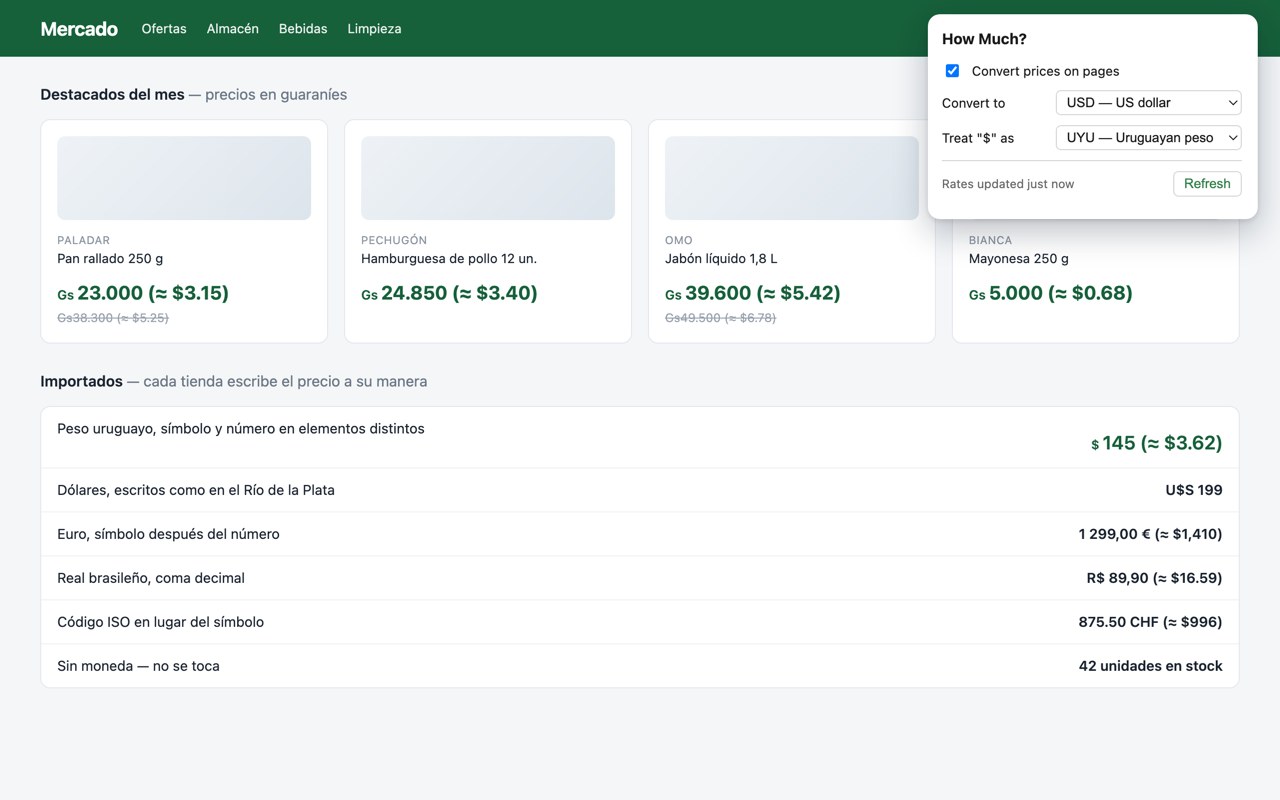
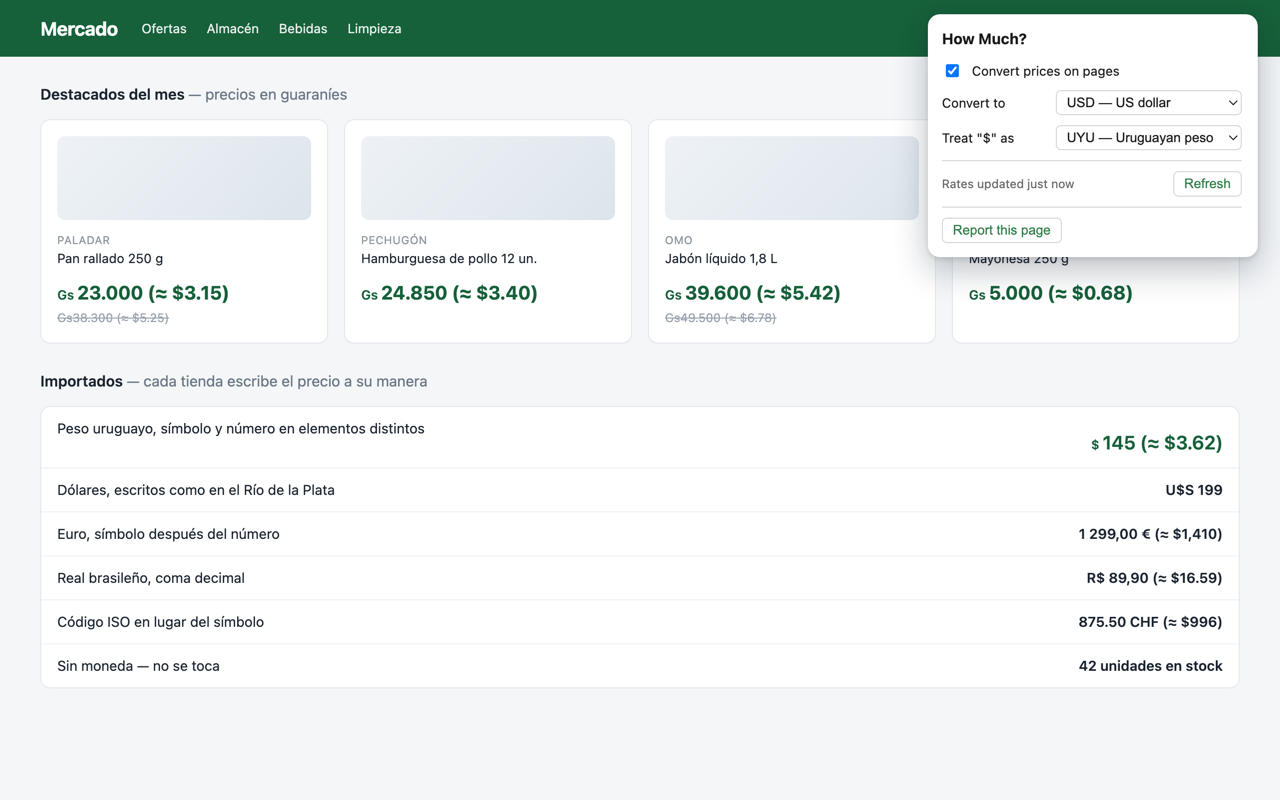
Detect spelled-out currencies; report pages that do not convert
vkusvill.ru broke the split-price pass three ways at once: the currency is the
word "руб", not a symbol or ISO code; it sits in a span nested one level deeper
than the pass allowed; and the price is followed by a unit, so the element's
text is not a price in its entirety.

So the pass now takes any small element whose text holds exactly one price
rather than only ones that are nothing but a price, allows six descendants
instead of only leaf children, and measures its 40-character cap after
collapsing whitespace — vkusvill's markup indentation alone made textContent 87
characters for a price that reads "340 руб/шт".

Two matching bugs the wider net exposed:

- A currency token could be a slice of a longer word. "USD" matched inside
  "USDT" and, once "руб" was a token, inside "рубанок". Fencing the alternation
  with letter lookarounds also fixed a live false positive on geant.com.uy,
  where "Hamburguesas BURGERBIF 2 un." read as 2 Burundian francs — BIF is a
  real code in the rate table, so it converted.
- Rechecked on all three shops: the pass now selects only price containers on
  geant, stock and vkusvill.

Also adds "Report this page" to the popup, for shops this still misses. Reports
go to chrome.storage.local and nowhere else — no server, no account, nothing
sent — and the popup lists, copies and clears them. The URL comes from the
content script rather than tab.url so this needs no new permission; a page where
the script does not run reports itself as unreadable.

Changed region(s): [[0.7188, 0.25, 1.0, 0.3438]]

diff --git a/src/content.js b/src/content.js
@@ -26,23 +26,19 @@
   let observer = null;
 
   // Currency alternation: every known symbol (longest first, so "R$" wins over
-  // "$") plus any three-letter ISO code.
-  const CUR = `(?:${Object.keys(SYMBOL_TO_CODE)
+  // "$") plus any three-letter ISO code, fenced by letters on both sides so a
+  // token cannot be a slice of a longer word. Without the lookahead, "руб"
+  // matches inside "рубанок" and "USD" inside "USDT"; without the lookbehind,
+  // "BURGERBIF 2 un." reads as 2 Burundian francs.
+  const CUR = `(?<![\\p{L}])(?:${Object.keys(SYMBOL_TO_CODE)
     .sort((a, b) => b.length - a.length)
     .map((sym) => sym.replace(/[.*+?^${}()|[\]\\]/g, "\\$&"))
-    .join("|")}|[A-Z]{3})`;
+    .join("|")}|[A-Z]{3})(?![\\p{L}])`;
 
   // <currency><number> or <number><currency>, anywhere in a run of text.
   const RE = new RegExp(
     `(${CUR})\\s?(${NUMBER})|(${NUMBER})\\s?(${CUR})`,
     "gu"
-  );
-
-  // The same, but matching a whole string — used on elements whose entire text
-  // is one price.
-  const FULL_RE = new RegExp(
-    `^(?:(${CUR})\\s?(${NUMBER})|(${NUMBER})\\s?(${CUR}))$`,
-    "u"
   );
 
   function resolveCode(token) {
@@ -139,11 +135,19 @@
     targets.forEach(annotateNode);
   }
 
-  // Second pass: elements whose entire text is a single price, assembled from
-  // more than one child. Only shallow elements qualify — one to three children,
-  // none of which has children of its own — which is what the split-price
-  // markup in the wild looks like and keeps this from reading textContent off
-  // large subtrees.
+  // A split price lives in a small element: a handful of nodes holding one
+  // number, one currency, and maybe a unit. These bounds keep the pass off
+  // large subtrees, whose textContent would be expensive to read.
+  const SPLIT_MAX_CHILDREN = 3;
+  const SPLIT_MAX_DESCENDANTS = 6;
+  const SPLIT_MAX_TEXT = 40;
+  // Before whitespace is collapsed; only there to bound the work above.
+  const SPLIT_MAX_RAW_TEXT = 400;
+
+  // Second pass: small elements holding exactly one price that no single text
+  // node contains on its own — <span>Gs</span><span>23.000</span>, or a number
+  // followed by a currency in a nested span. The price need not be the whole
+  // text: shops append units to it ("340 руб/шт").
   function annotateSplit(root) {
     // Reverse document order puts descendants before their ancestors, so the
     // innermost element around a price claims it and the outer ones then see
@@ -151,20 +155,23 @@
     const all = root.querySelectorAll("*");
     for (let i = all.length - 1; i >= 0; i--) {
       const el = all[i];
-      const kids = el.children;
-      if (kids.length < 1 || kids.length > 3) continue;
-      let shallow = true;
-      for (const kid of kids) {
-        if (kid.children.length) { shallow = false; break; }
-      }
-      if (!shallow || shouldSkip(el)) continue;
+      if (el.childElementCount < 1 || el.childElementCount > SPLIT_MAX_CHILDREN) continue;
+      if (el.getElementsByTagName("*").length > SPLIT_MAX_DESCENDANTS) continue;
+      if (shouldSkip(el)) continue;
       if (el.querySelector(`.${CONV_CLASS}`)) continue;
 
-      const text = el.textContent;
-      if (text.length > 40) continue;
-      const match = FULL_RE.exec(text.replace(/\s+/gu, " ").trim());
-      if (!match) continue;
+      const raw = el.textContent;
+      // Cheap bound first: markup indentation inflates textContent, so the real
+      // cap has to be measured after collapsing whitespace, not before.
+      if (raw.length > SPLIT_MAX_RAW_TEXT) continue;
+      const text = raw.replace(/\s+/gu, " ").trim();
+      if (text.length > SPLIT_MAX_TEXT) continue;
 
+      // Exactly one price, or we cannot say which the appended value refers to.
+      const matches = [...text.matchAll(RE)];
+      if (matches.length !== 1) continue;
+
+      const [match] = matches;
       const amount = parseAmount(match[2] || match[3]);
       const converted =
         amount == null ? null : convert(amount, resolveCode(match[1] || match[4]));
@@ -241,6 +248,19 @@
     startObserver();
     apply();
   }
+
+  // The popup asks the page about itself when you report it. Answering from the
+  // content script means the popup needs no permission to read tab URLs — this
+  // script is already running here.
+  chrome.runtime.onMessage.addListener((msg, _sender, sendResponse) => {
+    if (msg && msg.type === "pageInfo") {
+      sendResponse({
+        url: location.href,
+        title: document.title,
+        converted: document.querySelectorAll(`.${CONV_CLASS}`).length,
+      });
+    }
+  });
 
   chrome.storage.onChanged.addListener((changes, area) => {
     if (area !== "local") return;

diff --git a/src/popup.js b/src/popup.js
@@ -13,6 +13,13 @@
     dollar: document.getElementById("dollarAssumption"),
     status: document.getElementById("ratesStatus"),
     refresh: document.getElementById("refresh"),
+    report: document.getElementById("report"),
+    reportStatus: document.getElementById("reportStatus"),
+    reportList: document.getElementById("reportList"),
+    reportCount: document.getElementById("reportCount"),
+    reportItems: document.getElementById("reportItems"),
+    copyReports: document.getElementById("copyReports"),
+    clearReports: document.getElementById("clearReports"),
   };
 
   function option(code) {
@@ -85,5 +92,86 @@
     });
   });
 
+  // --- Reporting pages where conversion did not work -----------------------
+  //
+  // Reports are kept in chrome.storage.local and go nowhere else: this browser
+  // profile is the only place they exist. "Copy all" is how they get out.
+
+  const MAX_REPORTS = 200;
+
+  // Ask the content script rather than reading tab.url, which would need the
+  // "tabs" permission. The script is already running on the page being reported.
+  async function pageInfo() {
+    const [tab] = await chrome.tabs.query({ active: true, currentWindow: true });
+    if (!tab) return null;
+    try {
+      return (await chrome.tabs.sendMessage(tab.id, { type: "pageInfo" })) || null;
+    } catch {
+      return null; // no content script here (chrome:// pages, the store, PDFs)
+    }
+  }
+
+  function when(ts) {
+    return new Date(ts).toLocaleDateString(undefined, { month: "short", day: "numeric" });
+  }
+
+  async function renderReports() {
+    const { reports = [] } = await chrome.storage.local.get("reports");
+    els.reportList.hidden = reports.length === 0;
+    if (!reports.length) return;
+
+    els.reportCount.textContent =
+      reports.length === 1 ? "1 reported page" : `${reports.length} reported pages`;
+    els.reportItems.replaceChildren(
+      ...reports.map((r) => {
+        const li = document.createElement("li");
+        const meta = document.createElement("span");
+        meta.className = "when";
+        meta.textContent = `${when(r.at)} · ${r.converted} converted — `;
+        li.append(meta, document.createTextNode(r.url));
+        return li;
+      })
+    );
+  }
+
+  els.report.addEventListener("click", async () => {
+    const info = await pageInfo();
+    if (!info) {
+      els.reportStatus.textContent = "Can't read this page";
+      return;
+    }
+
+    const { reports = [] } = await chrome.storage.local.get("reports");
+    const entry = {
+      url: info.url,
+      title: info.title,
+      at: Date.now(),
+      converted: info.converted,
+    };
+    const seen = reports.findIndex((r) => r.url === entry.url);
+    if (seen >= 0) reports.splice(seen, 1);
+    reports.unshift(entry);
+
+    await chrome.storage.local.set({ reports: reports.slice(0, MAX_REPORTS) });
+    els.reportStatus.textContent = seen >= 0 ? "Already on the list" : "Saved";
+    renderReports();
+  });
+
+  els.copyReports.addEventListener("click", async () => {
+    const { reports = [] } = await chrome.storage.local.get("reports");
+    const text = reports
+      .map((r) => `${new Date(r.at).toISOString().slice(0, 10)}\t${r.converted}\t${r.url}`)
+      .join("\n");
+    await navigator.clipboard.writeText(text);
+    els.reportStatus.textContent = "Copied";
+  });
+
+  els.clearReports.addEventListener("click", async () => {
+    await chrome.storage.local.remove("reports");
+    els.reportStatus.textContent = "Cleared";
+    renderReports();
+  });
+
   load();
+  renderReports();
 })();

diff --git a/src/popup.css b/src/popup.css
@@ -76,3 +76,42 @@ button {
 button:hover {
   border-color: var(--accent);
 }
+
+/* Reported pages: a local list of URLs where conversion did not work. It never
+   leaves this browser, so it lives in chrome.storage.local like the settings. */
+.reports {
+  margin-top: 4px;
+  padding-top: 10px;
+  border-top: 1px solid var(--border);
+}
+
+.muted {
+  font-size: 12px;
+  color: var(--muted);
+}
+
+summary {
+  cursor: pointer;
+  font-size: 12px;
+  color: var(--muted);
+  margin-bottom: 8px;
+}
+
+#reportItems {
+  margin: 0 0 8px;
+  padding: 0;
+  list-style: none;
+  max-height: 150px;
+  overflow-y: auto;
+  font-size: 11px;
+}
+
+#reportItems li {
+  padding: 5px 0;
+  border-top: 1px solid var(--border);
+  word-break: break-all;
+}
+
+#reportItems .when {
+  color: var(--muted);
+}

diff --git a/test/fixture.html b/test/fixture.html
@@ -32,6 +32,12 @@
         <span class="productPrice"><span>Gs&nbsp;</span><span>&nbsp;23.000</span></span></li>
       <li>Split across elements (geant.com.uy):
         <span class="text"><span>$</span><span>145</span></span></li>
+      <li>Spelled out, not signed: 340 руб/шт</li>
+      <li>Spelled out, in prose: купил за 340 рублей</li>
+      <li>Currency in a nested span (vkusvill.ru):
+        <span class="Price">334 <span class="Currency"><span>руб</span></span>/шт</span></li>
+      <li>Should be ignored (a word, not a currency): купил 340 рубанков</li>
+      <li>Should be ignored (crypto ticker, not USD): 500 USDT</li>
       <li>Should be ignored (no currency): 42 items in stock</li>
     </ul>
   </body>

diff --git a/src/popup.html b/src/popup.html
@@ -28,6 +28,22 @@
       <button id="refresh" type="button">Refresh</button>
     </div>
 
+    <div class="reports">
+      <div class="row">
+        <button id="report" type="button">Report this page</button>
+        <span id="reportStatus" class="muted"></span>
+      </div>
+
+      <details id="reportList" hidden>
+        <summary><span id="reportCount"></span></summary>
+        <ul id="reportItems"></ul>
+        <div class="row">
+          <button id="copyReports" type="button">Copy all</button>
+          <button id="clearReports" type="button">Clear</button>
+        </div>
+      </details>
+    </div>
+
     <script src="currency.js"></script>
     <script src="popup.js"></script>
   </body>

diff --git a/src/currency.js b/src/currency.js
@@ -33,7 +33,16 @@ const SYMBOL_TO_CODE = {
   "¥": "JPY",
   "₩": "KRW",
   "₽": "RUB",
+  // Written-out names, for shops that spell the currency instead of signing it.
+  "рублей": "RUB",
+  "рубля": "RUB",
+  "руб.": "RUB",
+  "руб": "RUB",
+  "гривен": "UAH",
+  "грн": "UAH",
   "₴": "UAH",
+  "₸": "KZT",
+  "тг": "KZT",
   "₾": "GEL",
   "₺": "TRY",
   "₹": "INR",

diff --git a/README.md b/README.md
@@ -61,16 +61,28 @@ GitHub release.
 | Rates | `src/background.js` | Fetches a USD-based rate table from [open.er-api.com](https://open.er-api.com) and caches it in `chrome.storage.local` for 6 hours. All pairs are derived as cross rates. |
 | Detection | `src/currency.js` | Symbol/ISO-code tables and a locale-aware number parser (`1 234,56` vs `1,234.56`). |
 | Page changes | `src/content.js` | Two passes — text nodes that hold a whole price, then shallow elements that spread one across children — appending the converted value in a `.hmc-conv` span, and re-scanning on DOM mutations. |
-| Settings | `src/popup.*` | Target currency, what `$` should mean, on/off, and a manual rate refresh. |
+| Settings | `src/popup.*` | Target currency, what `$` should mean, on/off, a manual rate refresh, and the list of reported pages. |
 
-## Known limitations (v1)
+## Reporting a page that does not work
+
+Detection is heuristics against markup nobody standardized, so some shops will
+slip through. The popup has **Report this page**, which saves that page's URL to
+a list you can read, copy, and clear from the popup itself.
+
+The list lives in `chrome.storage.local` and goes nowhere — no server, no
+account, nothing sent anywhere. It exists in this browser profile only, which
+also means it does not follow you to another machine.
+
+## Known limitations
 
 - Only currencies placed **directly** before or after the number are recognized
-  (`$5`, `5 USD`), not prose like "five dollars" or "USD five".
+  (`$5`, `5 USD`, `340 руб`), not prose like "five dollars".
 - A bare `$` is assumed to be USD unless you change **Treat "$" as** in the popup.
-- A price split across elements is only found when the element holding it
-  contains nothing else (`<span><span>$</span><span>5</span></span>`), which is
-  the common store-template shape but not the only one.
+- A split price is found only when the element around it is small — up to three
+  children, six descendants, and 40 characters of text once whitespace is
+  collapsed. That covers the usual store-template shapes, not every one.
+- An element holding two split prices at once is skipped, because there is no
+  way to say which one an appended conversion belongs to.
 
 ## Roadmap ideas
 

diff --git a/STORE.md b/STORE.md
@@ -34,8 +34,11 @@ version it has already seen.
 >   store templates are actually built.
 > • A bare "$" is ambiguous — much of Latin America prints it and means a peso.
 >   Tell the extension what "$" should mean on the sites you use.
+> • Recognizes currencies that are spelled out rather than signed (340 руб).
 > • Rates come from a public exchange-rate service and are cached for six
 >   hours; refresh them yourself any time from the popup.
+> • Found a shop it misses? "Report this page" keeps the address in a list only
+>   you can see, stored in your own browser.
 >
 > No account, no analytics, no tracking. Your settings stay on your machine and
 > nothing about the pages you visit ever leaves your browser.
@@ -49,8 +52,9 @@ version it has already seen.
 **Justification — `storage`**
 
 > Stores the user's three settings (target currency, what a bare "$" means, and
-> whether conversion is on) and caches the exchange-rate table so the extension
-> does not refetch rates on every page load.
+> whether conversion is on), caches the exchange-rate table so the extension does
+> not refetch rates on every page load, and holds the list of pages the user
+> marked as not converting correctly. All of it is local; none is transmitted.
 
 **Justification — host permission `https://open.er-api.com/*`**
 

diff --git a/PRIVACY.md b/PRIVACY.md
@@ -14,6 +14,13 @@ conversion is on — plus a cached table of exchange rates. All of it lives in
 `chrome.storage.local`, on your own machine. It is never uploaded, and it is
 deleted when you remove the extension.
 
+## Reported pages
+
+If you use **Report this page**, the address of that page is added to a list in
+`chrome.storage.local` — the same local storage as the settings. It is not sent
+anywhere. Nobody but you can read it, it is visible only in the extension's own
+popup, and **Clear** deletes it.
+
 ## What is read from web pages
 
 To find prices, the extension reads the text of the pages you visit and adds a
